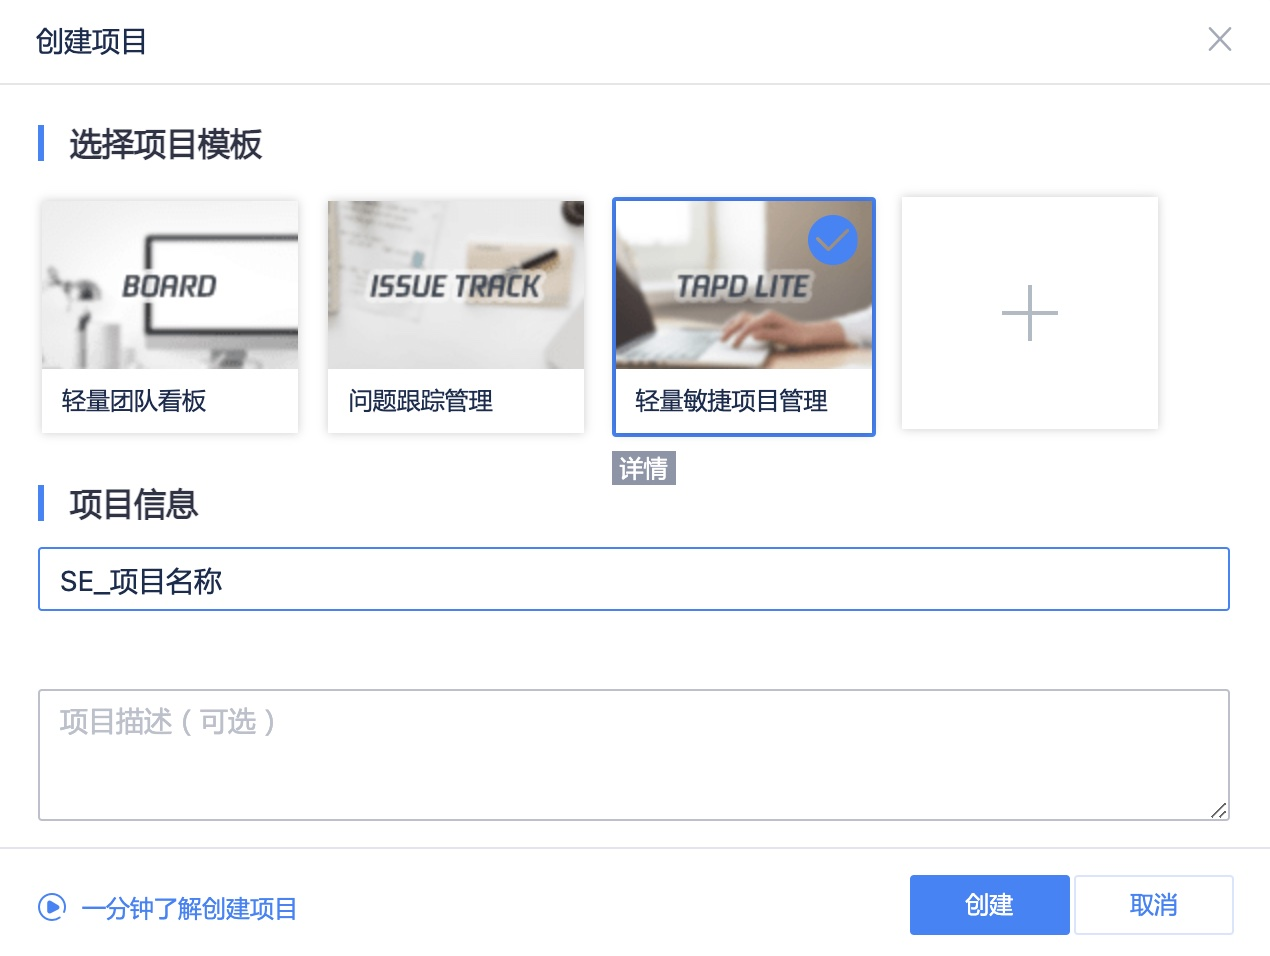
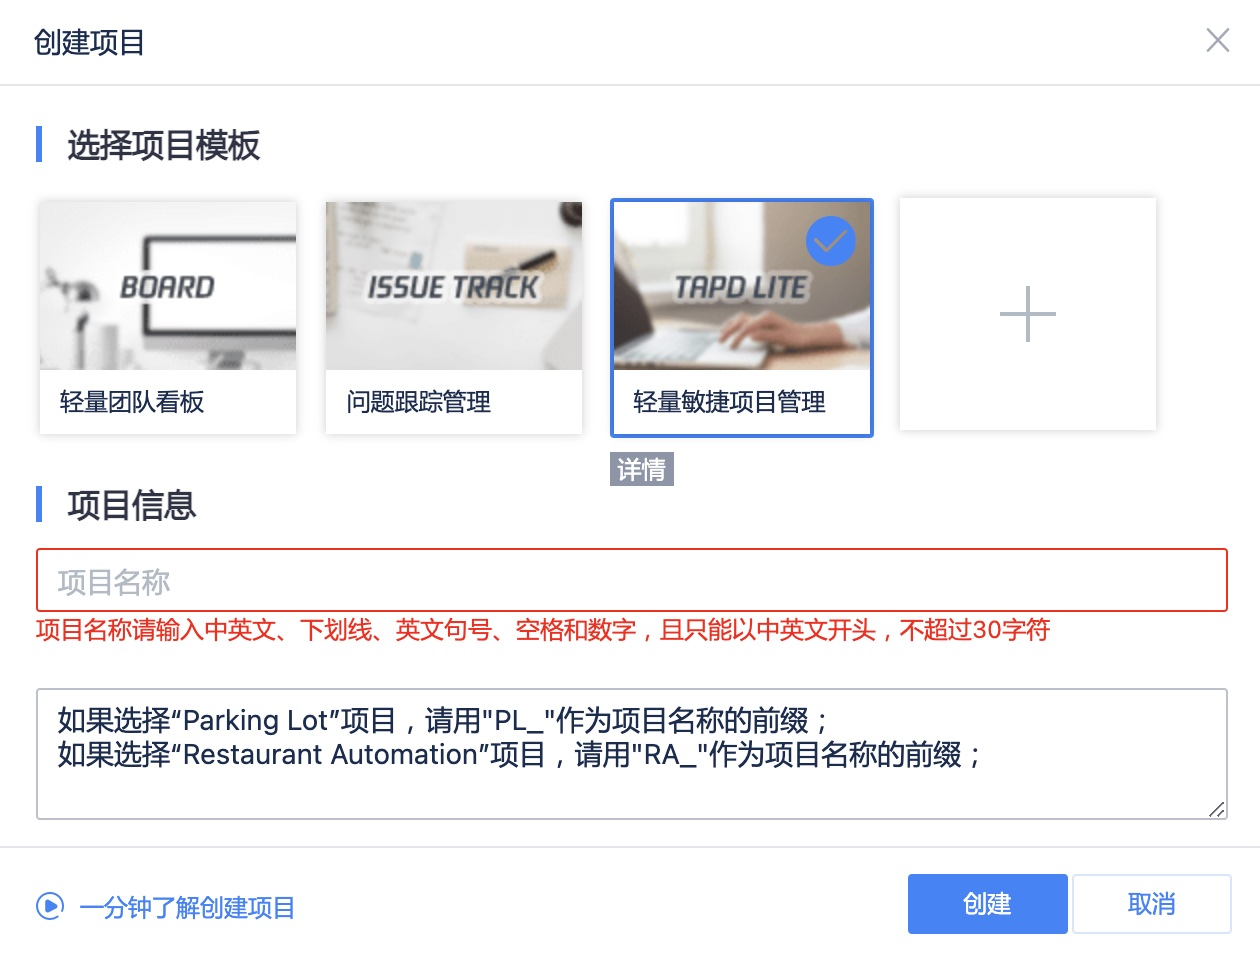
team

diff --git a/blog/2021-09-23assesment.md b/blog/2021-09-23assesment.md
@@ -17,8 +17,11 @@ tags: [assignments, team project, final score]
 ## 团队项目
 - 基于TAPD的敏捷项目管理：[加入TAPD](https://www.tapd.cn/invite_confirms/link_invite_activate?token=5941af889072be40b5b14e72be7b4de8)
 ![TAPD-Nankai](/img/tutorial/tapd.png)
-- 构建4～6人项目团队，推选小组长；
 - 选择任一个案例[Case](https://github.com/walkman617/SE2021/tree/main/Case)，作为团队项目；
+- 构建4～6人项目团队，推选组长，组长在TAPD中创建“轻量敏捷项目”，然后将组员添加到新创建的项目之中：
+    - 如果选择“Parking Lot”项目，请用"PL_"作为项目名称的前缀；
+    - 如果选择“Restaurant Automation”项目，请用"RA_"作为项目名称的前缀；
+    ![TAPD-Lite](/img/tutorial/tapd-lite.jpg)
 
 
 ## 成绩考核
